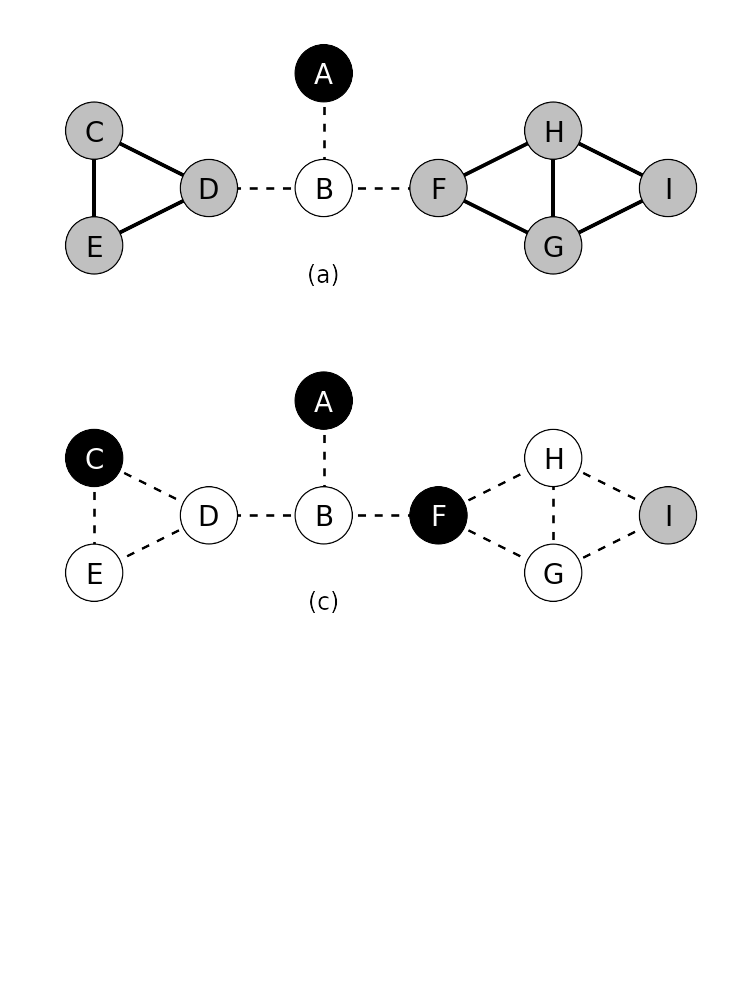
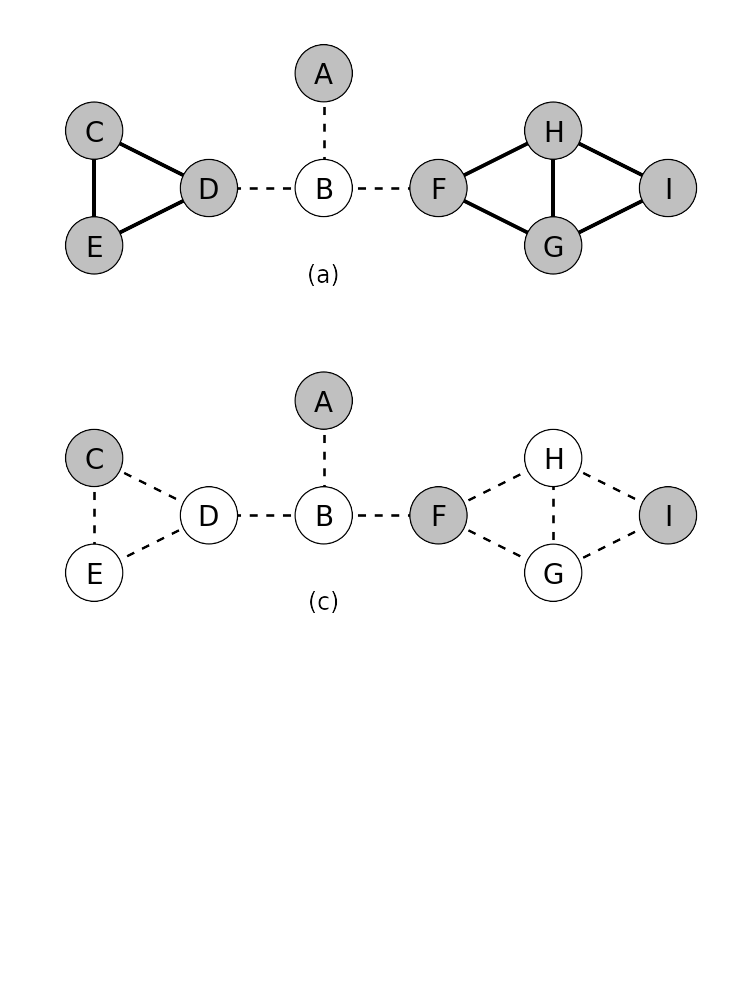
Update to alter the Leaf demo to only include removal of vertices before the final step

diff --git a/src/examples/RedundancyRemoval_MIS.py b/src/examples/RedundancyRemoval_MIS.py
@@ -50,9 +50,9 @@ def main(figureSaveLocation):
     leafGridOne = gridspec.GridSpec(3, 2)
     leafGridOne.update(left=0.005, right=0.995, bottom=0.05, top=1, wspace=0.05)
     leafStep1Plot = plt.subplot(leafGridOne[0, 0:2])  # Graph for the first step of the Leaf redundancy removal.
-    draw_graph(leafFigureOne, removed=['B'], kept=['A'], label='(a)')
+    draw_graph(leafFigureOne, removed=['B'], kept=[], label='(a)')
     leafStep3Plot = plt.subplot(leafGridOne[1, 0:2])  # Graph for the third step of the Leaf redundancy removal.
-    draw_graph(leafFigureOne, removed=['B', 'D', 'E', 'G', 'H'], kept=['A', 'C', 'F'], label='(c)')
+    draw_graph(leafFigureOne, removed=['B', 'D', 'E', 'G', 'H'], kept=[], label='(c)')
     leafBlankPlot = plt.subplot(leafGridOne[2, 0:2])  # Stick a blank placeholder in to synchronise the spacing for the Leaf, NC and FIS graphs.
     draw_graph(leafFigureOne, blank=True)
     leafGridOne.tight_layout(leafFigureOne)
@@ -61,7 +61,7 @@ def main(figureSaveLocation):
     leafGridTwo = gridspec.GridSpec(3, 2)
     leafGridTwo.update(left=0.005, right=0.995, bottom=0.05, top=1, wspace=0.05)
     leafStep2Plot = plt.subplot(leafGridTwo[0, 0:2])  # Graph for the second step of the Leaf redundancy removal.
-    draw_graph(leafFigureTwo, removed=['B', 'D', 'E'], kept=['A', 'C'], label='(b)')
+    draw_graph(leafFigureTwo, removed=['B', 'D', 'E'], kept=[], label='(b)')
     leafStep4Plot = plt.subplot(leafGridTwo[1, 0:2])  # Graph for the fourth step of the Leaf redundancy removal.
     draw_graph(leafFigureTwo, removed=['B', 'D', 'E', 'G', 'H'], kept=['A', 'C', 'F', 'I'], label='(d)')
     leafBlankPlot = plt.subplot(leafGridTwo[2, 0:2])  # Stick a blank placeholder in to synchronise the spacing for the Leaf, NC and FIS graphs.
